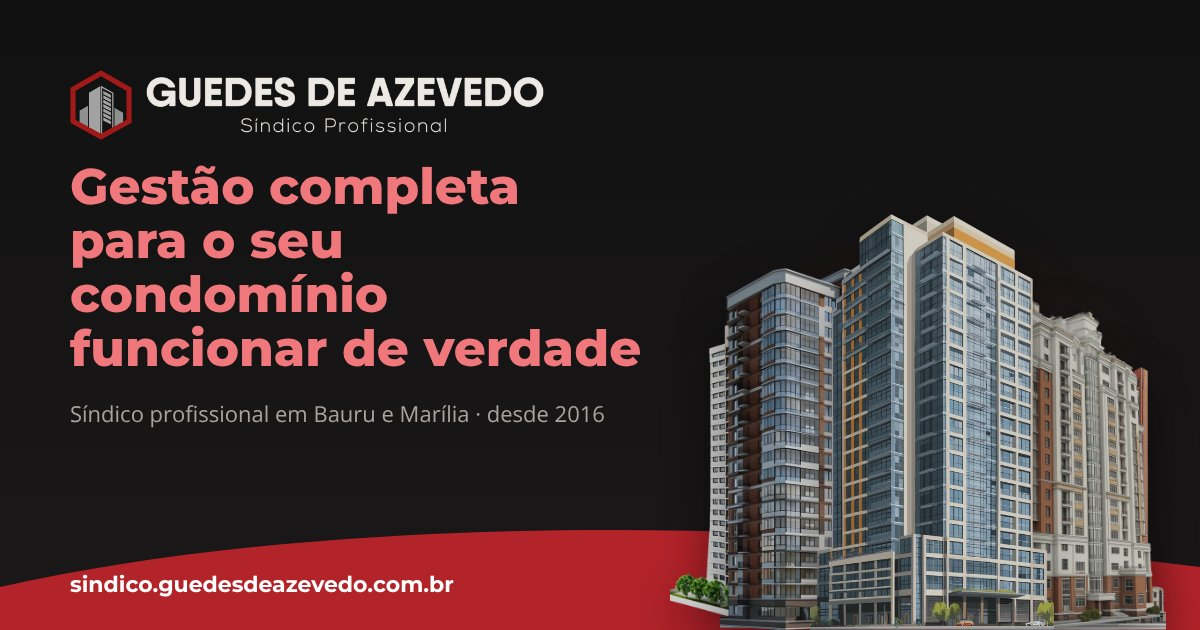
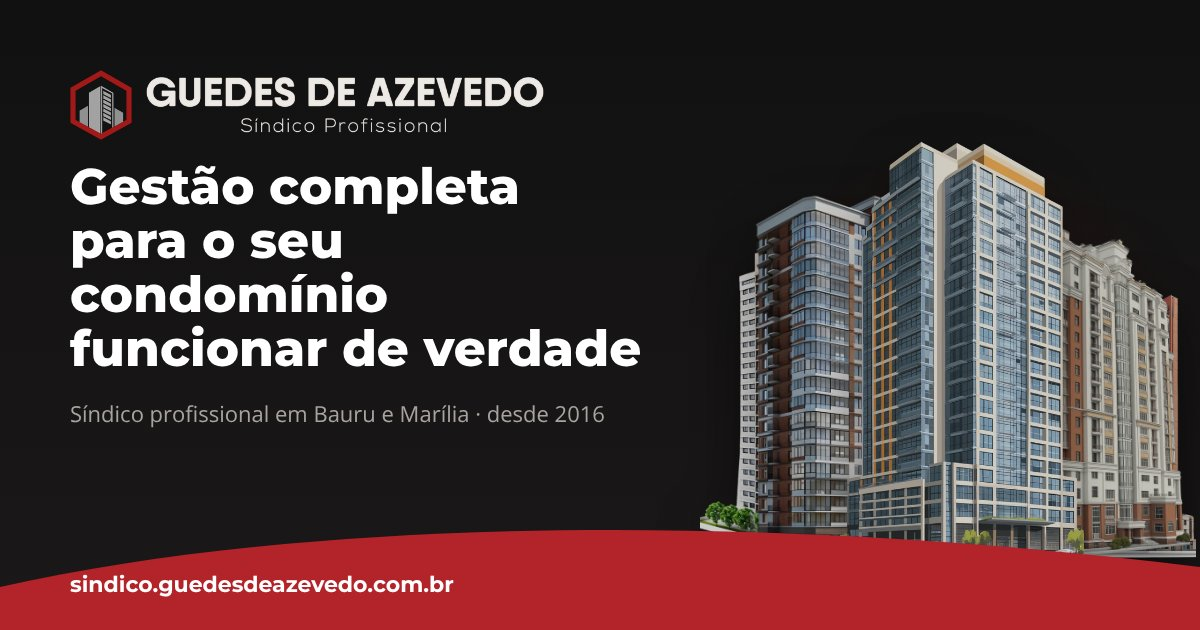
style: prédios do topo maiores e na frente da curva

Changed region(s): [[0.555, 0.2111, 1.0, 1.0], [0.0617, 0.3619, 0.555, 0.6032], [0.0617, 0.2413, 0.4317, 0.3317]]

diff --git a/css/estilo.css b/css/estilo.css
@@ -20,6 +20,8 @@
   --vinho: #B3232A;
   --vinho-escuro: #861418;
   --vinho-texto: #F0787C;
+  /* Cor do título do topo (branco no modo escuro) */
+  --titulo-cor: #FFFFFF;
   --rodape: #5A0D10;
   --sombra: rgba(0, 0, 0, 0.35);
   /* Prédios do topo um pouco mais escuros à noite, para combinar com o fundo */
@@ -51,6 +53,7 @@
   --vinho: #A3191E;
   --vinho-escuro: #6E1013;
   --vinho-texto: #A3191E;
+  --titulo-cor: #A3191E;
   --rodape: #6E1013;
   --sombra: rgba(0, 0, 0, 0.06);
   --predio-filtro: brightness(1);
@@ -111,6 +114,7 @@ header {
 
 /* Título com largura máxima: quebra em duas linhas equilibradas em vez de esticar de ponta a ponta */
 header h1 {
+  color: var(--titulo-cor);
   margin: 0 0 16px;
 }
 
@@ -394,6 +398,13 @@ header .slogan {
   position: relative;
   width: 100%;
   aspect-ratio: 520 / 470;
+  /* Prédios na frente da curva vermelha (a curva vem depois no HTML e, sem isto, ficaria por cima) */
+  z-index: 1;
+  /* 20% maiores, crescendo a partir da base, e um pouco para a direita para preencher o espaço.
+     O deslocamento em % é do próprio tamanho do palco, então acompanha a largura da tela. */
+  scale: 1.2;
+  transform-origin: 50% 100%;
+  translate: 6% 0;
 }
 
 /* Brilho vinho atrás dos prédios */
@@ -438,6 +449,9 @@ header .slogan {
   .skyline {
     max-width: 460px;
     margin: 0 auto;
+    /* Uma coluna só: os prédios ficam centralizados, no tamanho normal */
+    translate: none;
+    scale: none;
   }
 }
 

diff --git a/index.html b/index.html
@@ -337,7 +337,7 @@
           </div>
         </article>
         <article class="pessoa">
-          <div class="foto"><span class="inicial" aria-hidden="true">B</span></div>
+          <div class="foto"><img src="img/equipe-bruno.webp" alt="Foto de Bruno" width="600" height="600" loading="lazy"></div>
           <div class="pessoa-info">
             <p class="cargo">Jurídico</p>
             <h3>Bruno</h3>
